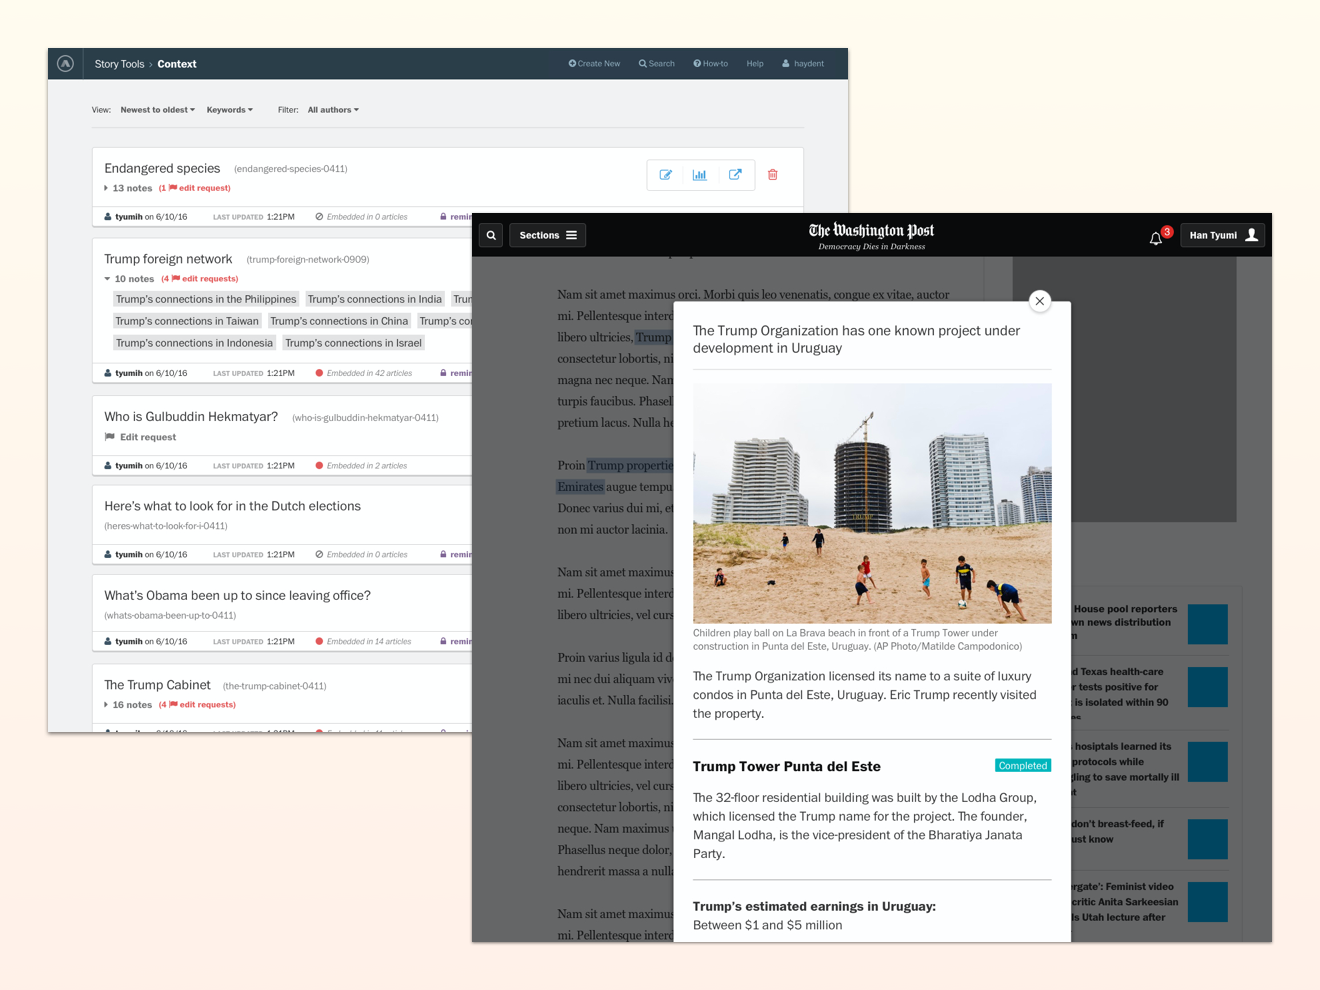
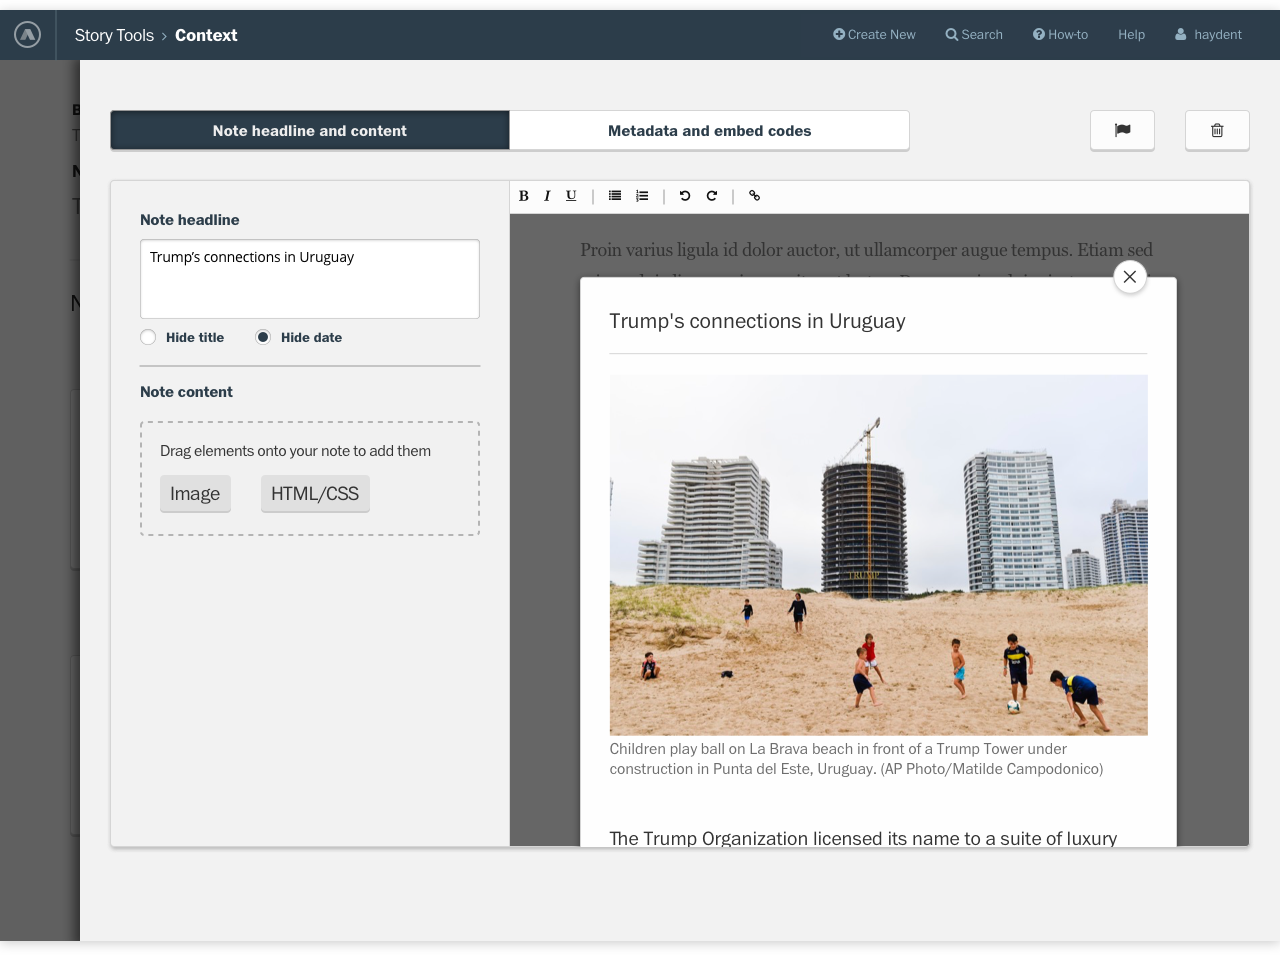
Adding pages and images

diff --git a/src/components/layout.css b/src/components/layout.css
@@ -12,6 +12,7 @@
   h3.project-title {
     margin-bottom: 0.5rem;
   }
+
   .work-table {
   /*  margin-top: 4rem;*/
   }
@@ -31,6 +32,9 @@
   footer {
     margin-top: 4rem;
   }
+
+/* Project page */
+
 
 
 @media only screen and (max-width: 600px) {

diff --git a/src/pages/tools.md b/src/pages/tools.md
@@ -4,13 +4,31 @@ blurb: "Building tools for the Washington Post newsroom."
 tech: "Sketch, Invision and HTML/CSS"
 time: "2015 - 2017"
 order: 2
-image: "../images/tools1.png"
+image: "../images/tools0.png"
 ---
 
-Diagram publishes concise and easy-to-read posts, and creates live section pages for news events, big companies and long term trends.
+While on The Post's Story Tools team, I designed CMSs and other tools for the newsroom, a dashboard and admin for creating FOIA requests, and a live preview text editor that supported HTML and CMS code editing and images.
 
-Users can find related people biographies on every page, along with background information and longreads when they want to go deep.
+### Context admin and CMS
 
-I don’t let stories die on the vine-- they get updated. The same topics and ideas come up over and over again in the news, so I keep them fresh and reusable.
+In addition to creating the end-user UI for our site, I also designed (and redesigned) a newsroom CMS for [The Post's annotation tool](https://www.niemanlab.org/2015/07/how-the-washington-post-built-and-will-be-building-on-its-knowledge-map-feature/).
 
-<iframe width="560" height="315" src="https://www.youtube.com/embed/4n0xNbfJLR8" frameborder="0" allowfullscreen></iframe>
+![Image](../images/editor.png)
+
+In our previous admin, it was difficult for the newsroom to batch edit items, flag them for editors, and track editing history. So, we introduced a tagging system and redesigned the dashboard so that the newsroom can see when items were last edited, whether someone is currently editing an item, and in what articles the items are used.
+
+The newsroom can also flag items for others to look at.
+
+![Image](../images/tools2.png)
+
+Below, an example of what our annotation looked like on the Washington Post site:
+
+![Image](../images/tools5.png)
+
+### FOIA tracker
+
+FOIA tracker was a project to build an internal tool for Post reporters to write and track FOIA requests. It was designed to allow reporters and editors to write FOIA requests and then record and share contact information, average wait times, and agency points-of-contact. We also worked to add check-in reminders that made contacting and working with government agencies easier.
+
+![Image](../images/tools3.png)
+
+![Image](../images/tools4.png)

diff --git a/src/pages/native-apps.md b/src/pages/native-apps.md
@@ -17,11 +17,11 @@ At launch, we’re calling out the Post’s new Reading List, which allows users
 
 ### App/Play Store revamp
 
-![test](../images/native2.png)
+![Image](../images/native2.png)
 
 For the App Store revamp, we explored what we want to communicate to first- and long-time users-- anyone who comes to our product page interested in what our app does. We determined what to write in combination with our newsroom stakeholders and user research.
 
-![test](../images/native3.png)
+![Image](../images/native3.png)
 
 ### Rich notifications
 
@@ -33,7 +33,7 @@ Below, I've included examples of both. We wanted to make something that made use
 
 The recirculation module is an end-of-article story carousel we launched last October. It aims to make use of a dead end at the bottom of articles, and boost depth to sections that don't get significant traffic.
 
-![test](../images/native4.png)
+![Image](../images/native4.png)
 
 **Process**
 
@@ -44,6 +44,10 @@ From there, I designed two versions of the carousel and made hi-fidelity prototy
 After sharing these with newsroom stakeholders, my PM and others in product, we decided to use the card design on the right, which more closely resembled story cards we use elsewhere in the app.
 
 We added this feature into a larger user test we ran late last summer. Every user recognized it as a carousel (small win, but still felt good).
+
+Below is an example of spec I shared with developers:
+
+![Image](../images/native5.png)
 
 We put a lot of thought into what stories should go into the carousel. In the end, we decided to emphasize stories from other sections, hoping that would help surface stories users would otherwise not see.
 

diff --git a/src/pages/diagram.md b/src/pages/diagram.md
@@ -7,7 +7,7 @@ order: 4
 image: "../images/diagram0.png"
 ---
 
-![test](../images/video1.png)
+Diagram.news is a news blog I soft launched in August. It covers artificial intelligence, but will gradually report on other topics as the site grows.
 
 Diagram publishes concise and easy-to-read posts, and creates live section pages for news events, big companies and long term trends.
 
@@ -15,4 +15,4 @@ Users can find related people biographies on every page, along with background i
 
 I don’t let stories die on the vine-- they get updated. The same topics and ideas come up over and over again in the news, so I keep them fresh and reusable.
 
-<iframe width="560" height="315" src="https://www.youtube.com/embed/4n0xNbfJLR8" frameborder="0" allowfullscreen></iframe>
+![test](../images/diagram1.png)
